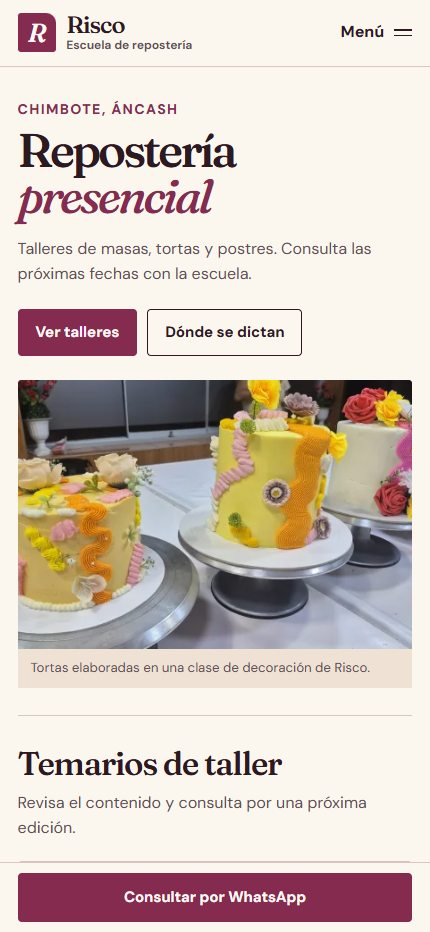
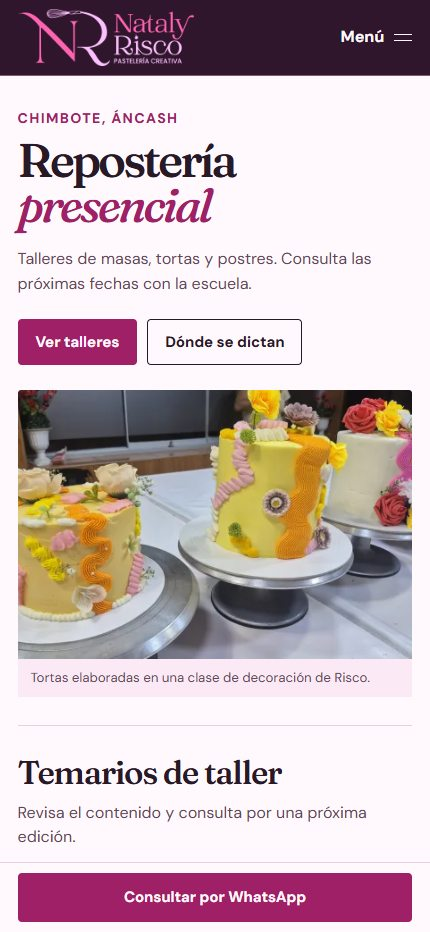
Aplicar la identidad visual de Nataly Risco

diff --git a/src/styles/global.css b/src/styles/global.css
@@ -41,7 +41,7 @@ main { min-height: 50vh; }
 
 [tabindex='-1']:focus { outline: none; }
 
-h1, h2, h3, .brand-title {
+h1, h2, h3 {
   font-family: var(--font-serif);
   font-weight: 560;
   line-height: 1.04;
@@ -85,7 +85,7 @@ p { max-width: 64ch; }
   border: 1px solid var(--color-berry);
   border-radius: .25rem;
   background: var(--color-berry);
-  color: #fff9f6;
+  color: var(--color-paper);
   font-size: .9375rem;
   font-weight: 700;
   line-height: 1.25;
@@ -95,9 +95,9 @@ p { max-width: 64ch; }
 .button:hover { background: var(--color-wine); border-color: var(--color-wine); }
 .button:focus-visible { outline-color: var(--color-berry); }
 .button-outline { color: var(--color-ink); background: transparent; border-color: var(--color-ink); }
-.button-outline:hover { color: #fff9f6; }
+.button-outline:hover { color: var(--color-paper); }
 .button-light { background: var(--color-rose); color: var(--color-wine); border-color: var(--color-rose); }
-.button-light:hover { color: var(--color-ink); background: #fff6f9; border-color: #fff6f9; }
+.button-light:hover { color: var(--color-ink); background: var(--color-pink); border-color: var(--color-pink); }
 .button-light:focus-visible { outline-color: var(--color-rose); }
 
 .text-link {
@@ -117,37 +117,28 @@ p { max-width: 64ch; }
   position: sticky;
   z-index: 8;
   top: 0;
-  background: var(--color-paper);
-  border-bottom: 1px solid var(--color-line);
+  background: var(--color-wine);
+  color: var(--color-paper);
+  border-bottom: 1px solid var(--color-dark-line);
 }
 .header-inner { min-height: var(--header-height); display: flex; align-items: center; justify-content: space-between; gap: .8rem; }
-.brand { display: inline-flex; gap: .62rem; align-items: center; flex: none; }
-.brand-mark {
-  display: grid;
-  width: 2.42rem;
-  aspect-ratio: 1;
-  place-items: center;
-  color: #fff9f6;
-  background: var(--color-berry);
-  border-radius: .19rem .64rem .19rem .19rem;
-  font: italic 600 1.63rem/1 var(--font-serif);
-}
-.brand-text { display: grid; gap: .12rem; }
-.brand-title { font-size: 1.48rem; }
-.brand-subtitle { color: var(--color-muted); font-size: .75rem; font-weight: 650; line-height: 1.15; }
+.brand { display: inline-flex; align-items: center; flex: none; }
+.brand img { display: block; height: auto; }
+.header-inner .brand img { width: clamp(11rem, 21vw, 14rem); }
+.site-header :focus-visible, .site-footer :focus-visible { outline-color: var(--color-rose); }
 .desktop-nav, .header-contact { display: none; }
 .mobile-menu[open] nav {
   position: absolute;
   inset: 100% 0 auto;
-  background: var(--color-paper);
-  border-bottom: 1px solid var(--color-line);
-  box-shadow: 0 .6rem 1.5rem #2d192213;
+  background: var(--color-wine);
+  border-bottom: 1px solid var(--color-dark-line);
+  box-shadow: 0 .6rem 1.5rem #30162d2e;
   padding: .4rem var(--gutter) .7rem;
 }
 .menu-toggle { display: flex; align-items: center; gap: .65rem; min-height: 2.75rem; cursor: pointer; font-weight: 700; }
 .menu-toggle::-webkit-details-marker, .faq summary::-webkit-details-marker { display: none; }
 .mobile-menu nav a, .desktop-nav a { display: flex; min-height: 2.75rem; align-items: center; font-weight: 650; }
-.mobile-menu nav a + a { border-top: 1px solid var(--color-line); }
+.mobile-menu nav a + a { border-top: 1px solid var(--color-dark-line); }
 .menu-lines { display: grid; gap: .27rem; width: 1.125rem; }
 .menu-lines::before, .menu-lines::after { content: ''; display: block; height: 1.5px; background: currentColor; }
 
@@ -162,7 +153,7 @@ p { max-width: 64ch; }
 .hero h1 em { display: block; color: var(--color-berry); font-weight: 500; }
 .hero-description { margin-top: 1.12rem; color: var(--color-muted); font-size: clamp(1rem, 2vw, 1.18rem); max-width: 34ch; }
 .actions { display: flex; align-items: center; gap: .65rem; flex-wrap: wrap; margin-top: 1.4rem; }
-.hero-photo { min-width: 0; border-radius: .2rem .2rem 0 0; overflow: hidden; align-self: start; background: #efe2d5; }
+.hero-photo { min-width: 0; border-radius: .2rem .2rem 0 0; overflow: hidden; align-self: start; background: var(--color-blush); }
 .hero-photo img { width: 100%; aspect-ratio: 1.47; height: auto; object-fit: cover; }
 .hero-photo figcaption { padding: .58rem .8rem; font-size: .825rem; color: var(--color-muted); }
 
@@ -181,10 +172,10 @@ p { max-width: 64ch; }
   border-radius: .25rem;
   overflow: hidden;
 }
-.workshop-berry { --card-paper: #f2dce3; --card-line: #ddbbc7; }
-.workshop-wheat { --card-paper: #f1e4cd; --card-line: #d7c3a3; }
-.workshop-sage { --card-paper: #e9eadf; --card-line: #cccfbc; }
-.workshop-paper { --card-paper: #f5ece0; --card-line: #ddcbb9; }
+.workshop-berry { --card-paper: #ffe7f4; --card-line: #ecc6dc; }
+.workshop-blush { --card-paper: #fff0f7; --card-line: var(--color-line); }
+.workshop-lilac { --card-paper: #f9edfa; --card-line: #e6cfe9; }
+.workshop-paper { --card-paper: #fffcfe; --card-line: var(--color-line); }
 .workshop-content { flex: 1; display: flex; flex-direction: column; gap: .69rem; padding: 1.05rem 1.1rem .65rem; }
 .workshop-category { color: var(--color-wine); }
 .workshop-content > p:not(.eyebrow) { color: var(--color-muted); }
@@ -196,7 +187,7 @@ p { max-width: 64ch; }
 .gallery-grid a { display: block; border-radius: .2rem; }
 .gallery-grid figcaption { color: var(--color-muted); font-size: .875rem; margin-top: .55rem; }
 .gallery-dialog { width: min(95vw, 66rem); max-height: 92dvh; margin: auto; background: var(--color-paper); color: var(--color-ink); border-radius: .3rem; }
-.gallery-dialog::backdrop { background: #21131be8; }
+.gallery-dialog::backdrop { background: #281927e8; }
 .gallery-dialog-inner { display: grid; gap: .7rem; padding: .9rem; justify-items: center; }
 .gallery-dialog-inner form { justify-self: end; }
 .gallery-dialog img { max-height: 66dvh; object-fit: contain; }
@@ -205,15 +196,15 @@ body:has(.gallery-dialog[open]) { overflow: hidden; }
 
 .registration-section { background: var(--color-wine); color: var(--color-paper); }
 .registration-inner { display: grid; gap: 2rem; padding-block: clamp(3rem, 7vw, 6.5rem); }
-.registration-inner > div > p { margin-block: .85rem 1.3rem; color: #efd7dd; }
-.registration-steps { list-style: none; counter-reset: steps; border-top: 1px solid #a47b89; }
-.registration-steps li { position: relative; counter-increment: steps; padding: 1rem 0 1rem 2.7rem; border-bottom: 1px solid #a47b89; }
-.registration-steps li::before { content: counter(steps, decimal-leading-zero); position: absolute; left: 0; top: 1rem; color: #efd7dd; font-weight: 700; }
+.registration-inner > div > p { margin-block: .85rem 1.3rem; color: var(--color-blush); }
+.registration-steps { list-style: none; counter-reset: steps; border-top: 1px solid var(--color-dark-line); }
+.registration-steps li { position: relative; counter-increment: steps; padding: 1rem 0 1rem 2.7rem; border-bottom: 1px solid var(--color-dark-line); }
+.registration-steps li::before { content: counter(steps, decimal-leading-zero); position: absolute; left: 0; top: 1rem; color: var(--color-rose); font-weight: 700; }
 .registration-steps h3 { margin-bottom: .3rem; }
-.registration-steps p { color: #f2e3e7; }
+.registration-steps p { color: var(--color-blush); }
 
 .visit-section { display: grid; gap: 2.3rem; }
-.visit-card { align-self: start; background: #eee7da; padding: clamp(1.25rem, 5vw, 3rem); border-radius: .25rem; }
+.visit-card { align-self: start; background: var(--color-blush); padding: clamp(1.25rem, 5vw, 3rem); border-radius: .25rem; }
 .visit-card h2 { margin-top: .5rem; }
 .visit-card > p:not(.eyebrow) { color: var(--color-muted); margin-block: .8rem 1.25rem; }
 .faq h2 { margin-bottom: 1.15rem; }
@@ -227,11 +218,12 @@ body:has(.gallery-dialog[open]) { overflow: hidden; }
 .faq details[open] summary span::after { display: none; }
 .faq details p { padding: 0 1.4rem 1rem 0; color: var(--color-muted); }
 
-.site-footer { border-top: 1px solid var(--color-line); padding-bottom: calc(var(--mobile-contact-height) + env(safe-area-inset-bottom)); }
+.site-footer { background: var(--color-wine); color: var(--color-paper); padding-bottom: calc(var(--mobile-contact-height) + env(safe-area-inset-bottom)); }
 .footer-inner { display: grid; gap: 1rem; padding-block: 1.8rem; }
-.footer-inner p { color: var(--color-muted); font-size: .9rem; margin-top: .7rem; }
+.footer-inner .brand img { width: 8.75rem; }
+.footer-inner p { color: var(--color-blush); font-size: .9rem; margin-top: .7rem; }
 .footer-inner nav { display: flex; align-items: center; flex-wrap: wrap; gap: 0 1.05rem; }
-.footer-inner nav a { display: flex; min-height: 2.75rem; align-items: center; color: var(--color-muted); font-weight: 680; }
+.footer-inner nav a { display: flex; min-height: 2.75rem; align-items: center; color: var(--color-paper); font-weight: 680; }
 .footer-inner nav a:hover, .desktop-nav a:hover { text-decoration: underline; text-underline-offset: .23em; }
 .mobile-contact {
   position: fixed;
@@ -259,7 +251,7 @@ body:has(.gallery-dialog[open]) { overflow: hidden; }
 .topic-list { margin-top: 1rem; border-top: 1px solid var(--color-line); }
 .topic-list li { border-bottom: 1px solid var(--color-line); padding: .7rem 0 .7rem 1rem; position: relative; }
 .topic-list li::before { content: ''; width: .35rem; height: .35rem; position: absolute; left: 0; top: 1.28rem; background: var(--color-berry); border-radius: 50%; }
-.detail-contact { align-self: start; padding: clamp(1.15rem, 3.5vw, 2.3rem); background: #eee7da; border-radius: .25rem; }
+.detail-contact { align-self: start; padding: clamp(1.15rem, 3.5vw, 2.3rem); background: var(--color-blush); border-radius: .25rem; }
 .detail-contact dl { margin-block: 1rem 1.25rem; }
 .detail-contact dl > div { border-top: 1px solid var(--color-line); padding-block: .53rem; display: flex; flex-wrap: wrap; justify-content: space-between; gap: 0 .75rem; }
 .detail-contact dt { font-weight: 700; }
@@ -272,7 +264,7 @@ body:has(.gallery-dialog[open]) { overflow: hidden; }
 }
 
 @media (min-width: 55rem) {
-  :root { --header-height: 4.75rem; }
+  :root { --header-height: 5.5rem; }
   html { scroll-padding-bottom: 1rem; }
   .mobile-menu, .mobile-contact { display: none; }
   .desktop-nav { display: flex; gap: clamp(.9rem, 2.5vw, 2.65rem); }

diff --git a/src/data/workshops.ts b/src/data/workshops.ts
@@ -4,7 +4,7 @@ export interface Workshop {
   slug: string;
   title: string;
   category: string;
-  color: 'berry' | 'wheat' | 'sage' | 'paper';
+  color: 'berry' | 'blush' | 'lilac' | 'paper';
   cover?: Photo;
   verifiedStatus: 'referencia' | 'disponible';
   description: string;
@@ -40,7 +40,7 @@ export const workshops: Workshop[] = [
     slug: 'empanadas',
     title: 'Masas y rellenos de empanadas',
     category: 'Masas saladas',
-    color: 'wheat',
+    color: 'blush',
     cover: workshopPhotos.empanadas,
     verifiedStatus: 'referencia',
     description: 'Preparación de la masa y dos rellenos salados para empanadas, a partir del temario de Risco.',
@@ -54,7 +54,7 @@ export const workshops: Workshop[] = [
     slug: 'festival-de-helados',
     title: 'Festival de helados',
     category: 'Postres fríos',
-    color: 'sage',
+    color: 'lilac',
     cover: workshopPhotos.helados,
     verifiedStatus: 'referencia',
     description: 'Cremas base y combinaciones para preparar helados de distintos sabores.',

diff --git a/src/styles/tokens.css b/src/styles/tokens.css
@@ -1,13 +1,14 @@
 @theme {
-  --color-paper: #fbf6ee;
-  --color-ink: #2d1922;
-  --color-muted: #624d54;
-  --color-berry: #862b50;
-  --color-wine: #3e1d2b;
-  --color-rose: #f2dce3;
-  --color-wheat: #ebd6b5;
-  --color-sage: #dedfd1;
-  --color-line: #d8c7bd;
+  --color-paper: #fff8fc;
+  --color-ink: #281927;
+  --color-muted: #5f4758;
+  --color-berry: #a02067;
+  --color-wine: #30162d;
+  --color-pink: #ff64b2;
+  --color-rose: #fdc0ff;
+  --color-blush: #fbeaf5;
+  --color-line: #e8d0df;
+  --color-dark-line: #845873;
   --font-sans: 'DM Sans Variable', system-ui, sans-serif;
   --font-serif: 'Fraunces Variable', Georgia, serif;
 }
@@ -15,7 +16,7 @@
 :root {
   --gutter: clamp(1.1rem, 4vw, 3.4rem);
   --wrap: 75rem;
-  --header-height: 4.1rem;
+  --header-height: 4.7rem;
   --mobile-contact-height: 4.35rem;
   --motion: 180ms ease;
 }

diff --git a/docs/DIRECCION_DE_ARTE.md b/docs/DIRECCION_DE_ARTE.md
@@ -8,10 +8,10 @@
 | Mesa de obrador | Alta | La acción y los detalles de clase sostienen la galería. Para orientar al visitante desde el inicio, la foto comparte el primer bloque con navegación al catálogo. |
 | Escuela editorial | Media | Ordena bien la información institucional. La historia, el equipo y las instalaciones requieren más evidencia para sostenerla. |
 
-**Cuaderno de taller.** La secuencia va de portada y catálogo a práctica y resultados, luego a inscripción y ubicación. La foto de tortas florales sobre bases giratorias muestra el oficio desde el inicio. Las fichas usan fotografías del archivo con soportes rosas, trigo y salvia. En la galería, la práctica, el detalle de manga y los resultados tienen encuadres y pies propios.
+**Cuaderno de taller.** La secuencia va de portada y catálogo a práctica y resultados, luego a inscripción y ubicación. La foto de tortas florales sobre bases giratorias muestra el oficio desde el inicio. Las fichas usan fotografías del archivo sobre fondos rosa pálido, lila y papel. En la galería, la práctica, el detalle de manga y los resultados tienen encuadres y pies propios.
 
-**Sistema visual.** Marfil `#fbf6ee`, tinta ciruela `#2d1922`, frambuesa oscura `#862b50`, rosa `#f2dce3`, trigo `#ebd6b5` y salvia `#dedfd1`. El rosa se inspira en el material de identidad encontrado. Fraunces en titulares y DM Sans en navegación, lectura y metadatos. Ambas se sirven localmente. Identificador tipográfico provisional hasta que se confirme qué variante de marca identifica a la escuela.
+**Sistema visual.** La marca aporta el rosa `#ff64b2` y el lila rosado `#fdc0ff`. La cabecera y el pie usan ciruela `#30162d` para que se lean las dos tintas del logo. La base de papel `#fff8fc`, la tinta `#281927` y la frambuesa `#a02067` sostienen la lectura y las acciones. El logo horizontal va en la cabecera, el apilado en el pie y el monograma NR en los iconos. Fraunces en titulares y DM Sans en navegación, lectura y metadatos. Ambas se sirven localmente.
 
 **Composición.** A 360–390 px la identidad, la modalidad, la ciudad y la entrada al catálogo preceden la foto. En escritorio, la portada se distribuye en dos columnas de peso desigual y el catálogo conserva el orden de lectura. El bloque de consulta usa un fondo ciruela y la ficha de ubicación vuelve al papel. La galería abre ampliaciones para apreciar los detalles fuera de los recortes de la retícula.
 
-**Revisión visual.** La segunda pasada ensanchó el recorte de portada de 5:4 a 1.47:1 en móvil y ajustó el tamaño solicitado por fichas y galería para evitar ampliaciones borrosas. Evaluación editorial sobre capturas, de 1 a 5. Identidad 4, fotografía y encuadre 4, legibilidad móvil 5, claridad de talleres y contacto 5, consistencia tipográfica 5 y calidez 4.
+**Revisión visual.** Se amplió el logo móvil de 160 a 176 px para dar más presencia al nombre completo y se revisó el paso del menú móvil al escritorio a 880 px. La versión apilada mantiene legible la marca en el pie. Evaluación editorial sobre capturas, de 1 a 5. Identidad 5, fotografía y encuadre 4, legibilidad móvil 5, claridad de talleres y contacto 5, consistencia tipográfica 5 y calidez 4.

diff --git a/docs/QA_PREVIEW.md b/docs/QA_PREVIEW.md
@@ -7,6 +7,7 @@ Revisión del 23 de noviembre de 2026. Sitio estático en Astro y TypeScript con
 | Área | Resultado | Evidencia |
 | --- | --- | --- |
 | Responsive | PASA | Inicio a 320, 360, 390, 430, 640, 768, 1280 y 1440 px. Sin desbordamiento horizontal. El título de portada ocupa dos líneas y se cargan las ocho imágenes. |
+| Identidad de marca | PASA | Logo horizontal y apilado cargados con nombre accesible. Se comprobó el favicon y el espacio entre marca y navegación en once anchos, incluidos 879 y 880 px. |
 | Navegación | PASA | Menú móvil con teclado, cierre con Escape, cambio de ancla con foco en Talleres, enlace de salto y retorno desde fichas. En WebKit con el perfil iPhone 13 emulado a 390 px también se probaron los toques para menú, ficha, galería y FAQ. |
 | Talleres | PASA | Cuatro fichas con foto, temario y respuesta HTTP 200. El estado de referencia se muestra sin anunciar cupos ni fechas vigentes. |
 | WhatsApp | PASA | El número coincide en la cabecera, la ficha y la barra móvil. Se comprobaron el texto prellenado por cada ficha y la redirección a WhatsApp. La prueba no envió un mensaje. |
@@ -24,7 +25,7 @@ Revisión del 23 de noviembre de 2026. Sitio estático en Astro y TypeScript con
 
 | Rendimiento | Accesibilidad | Buenas prácticas | SEO | LCP | CLS | TBT |
 | --- | --- | --- | --- | --- | --- | --- |
-| 97/100 | 100/100 | 100/100 | 66/100 | 2,49 s | 0,018 | 93 ms |
+| 97/100 | 100/100 | 100/100 | 66/100 | 2,14 s | 0,018 | 167 ms |
 
 La única auditoría binaria fallida fue `is-crawlable` por el `noindex` deliberado del Preview. Se comprobó título, descripción, jerarquía y datos estructurados. La prueba de laboratorio mide TBT. El INP de usuarios reales queda sin medición de campo.
 
@@ -34,7 +35,7 @@ La única auditoría binaria fallida fue `is-crawlable` por el `noindex` deliber
 - Inicio a [1280 px](capturas/inicio-1280.jpg) y [1440 px](capturas/inicio-1440.jpg).
 - [Ficha móvil](capturas/ficha-390.jpg) y [ampliación de la galería móvil](capturas/galeria-390.jpg).
 
-La primera revisión a 390 px mostró que el nombre accesible de la marca no seguía el texto visible. Se ajustó el enlace y se repitió el análisis. También se ensanchó el encuadre móvil de la portada y se aumentó la resolución seleccionada para fotos anchas en fichas y galería. Las capturas corresponden a la revisión posterior.
+Las capturas corresponden a la versión con los logos entregados. En la segunda pasada se amplió el logo de cabecera de 160 a 176 px en móvil y se repitieron las pruebas de lectura, espacio y navegación.
 
 ## Publicación
 

diff --git a/docs/INVENTARIO_FUENTES.md b/docs/INVENTARIO_FUENTES.md
@@ -13,5 +13,5 @@ Consultado el 23 de noviembre de 2026. Las referencias a Drive se identifican po
 | F07 | Chimbote, Áncash | F01 y F03 | verificado |
 | F08 | Jr. Elías Aguirre 1168, Chimbote, sede de talleres | Dirección del anuncio de cremoladas en F03, corroborada por el solicitante el 23 de noviembre de 2026 para su publicación. El enlace de Google Maps usa la dirección confirmada como destino. | verificado |
 | F09 | Fechas vigentes, precios, horarios, cupos, nivel, materiales, políticas y credenciales | Sin confirmación vigente. Los horarios de directorios corresponden a fichas comerciales. | no_disponible |
-| F10 | Marca gráfica de Nataly Risco y relación con la escuela | Tres versiones de logo en la carpeta `NATALY RISCO` de Drive. La grafía y el identificador difieren del perfil público. | por_confirmar |
+| F10 | Identidad gráfica «Nataly Risco · Pastelería Creativa» | El solicitante entregó y autorizó los logotipos para este sitio el 23 de noviembre de 2026. Véase el [inventario de material visual](INVENTARIO_FOTOS.md#identidad-gráfica). | verificado |
 | F11 | Fotografías de preparaciones y de prácticas de decoración | Selección autorizada de la biblioteca de Repostería Creativa Risco en Google Fotos. Véase [inventario de fotos](INVENTARIO_FOTOS.md). | verificado |

diff --git a/docs/INVENTARIO_FOTOS.md b/docs/INVENTARIO_FOTOS.md
@@ -15,4 +15,14 @@ Selección del 23 de noviembre de 2026. El solicitante autorizó seleccionar y p
 
 Las cuatro fichas usan fotos de preparaciones del archivo. Solo se atribuyen a una clase concreta las escenas que lo permiten. La identificación conserva nombres de archivo y fechas de captura. El repositorio no incluye enlaces privados ni originales.
 
-Las tres variantes `LOGO NATALY RISCO (PNG)` de Drive se inspeccionaron para la paleta. El identificador tipográfico se adoptó mientras se confirma qué variante de marca debe acompañar el nombre de la escuela. La selección carece de una foto inequívoca de fachada.
+La selección carece de una foto inequívoca de fachada.
+
+## Identidad gráfica
+
+Archivos entregados y autorizados por el solicitante el 23 de noviembre de 2026.
+
+| Archivo entregado | Copia web | Uso |
+| --- | --- | --- |
+| `LOGO NATALY RISCO 1 (PNG).png` | `nataly-risco-horizontal.png` | Logo completo en la cabecera |
+| `LOGO NATALY RISCO 3 (PNG).png` | `nataly-risco-apilado.png` | Logo apilado en el pie |
+| `LOGO NATALY RISCO 2 NEGRO (JPG).jpg` | `favicon.png` e `icon-192.png` | Recorte y reducción del monograma NR para la pestaña y el icono táctil |

diff --git a/docs/PENDIENTES_PUBLICACION.md b/docs/PENDIENTES_PUBLICACION.md
@@ -1,4 +1,3 @@
 # Datos y permisos pendientes
 
-- Confirmar el logotipo o nombre de marca que debe acompañar a Escuela de Repostería Risco.
 - Confirmar convocatorias, temarios actuales, precio, duración, materiales, condiciones de inscripción y políticas antes de mostrarlos como información vigente.
